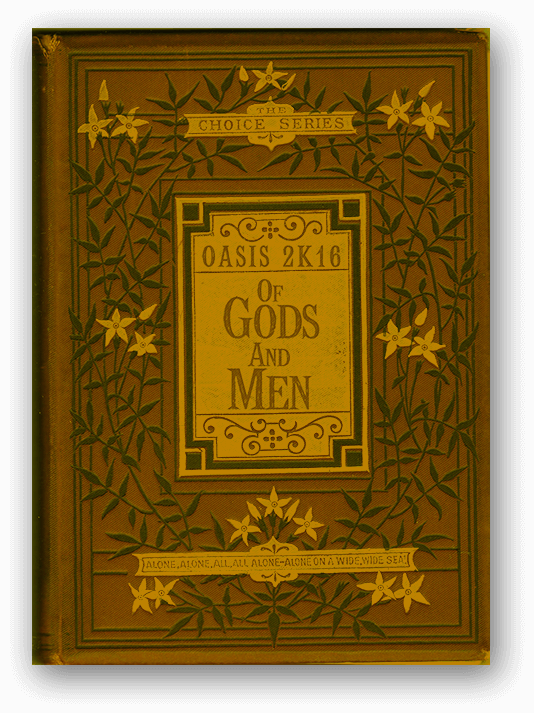
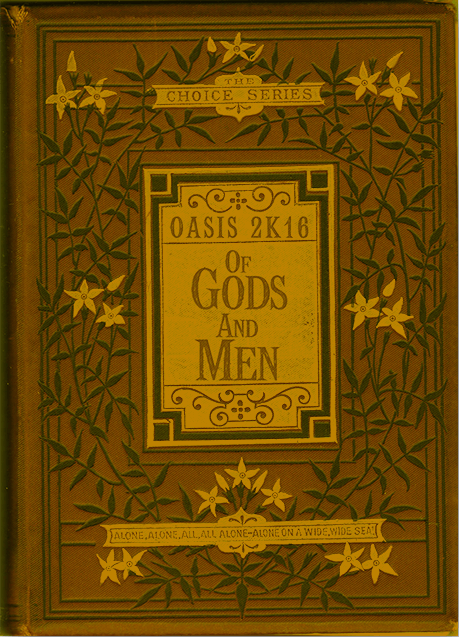
responsive fix

diff --git a/index.html b/index.html
@@ -9,7 +9,7 @@
 	<title>OASIS 2016 | OF GODS AND MEN | BITS Pilani</title>
 	<link href="https://fonts.googleapis.com/css?family=Lato" rel='stylesheet' type='text/css'>
 	<link rel="icon" type="image/png" href="./img/favicon.png">
-	<meta name="viewport" content="width=device-width, initial-scale=1.0">
+	<meta name="viewport" content="width=device-width, initial-scale=1.0,user-scalable">
 </head>
 <body>
 <div id="left"></div>
@@ -46,12 +46,13 @@
 	</div>
 </div>
 
+<div class="overlay"></div>
 	<div class="center">
 		<div id="book_box">
 			<div id="magazine">
 				<!-- <div ignore="1" class="tabs"><div class="left">  </div> <div class="right"> </div></div> -->
-				<div style="background-image:url(img/extraBevel.jpg);background-repeat:no-repeat;background-position: center;" class="hard out">
-					<div class="mascot"></div>
+				<div style="background-image:url(img/cover.png);background-repeat:no-repeat;background-position: center;" class="hard out">
+					<!-- <div class="mascot"></div>
 					<svg version="1.1" id="svg" xmlns="http://www.w3.org/2000/svg" xmlns:xlink="http://www.w3.org/1999/xlink" x="0px" y="0px"
 					width="100%" height="100%" viewBox="0 0 515 767" enable-background="new 0 0 515 767" xml:space="preserve">
 					<path fill-rule="evenodd" id="path-1"  stroke="#fff0a0" stroke-width="4" clip-rule="evenodd" fill="none" d="M88.916,70.794h134.796c0,0-29.165,23.835-14.582,58.699
@@ -88,7 +89,7 @@
 					c4.017,17.286,7.229,54.271-17.27,83.217c-24.5,28.945-72.407,50.529-45.053,112.766c13.947,31.734,47.933,28.312,51.556,30.728
 					c0,0-16.301,93.627-73.657,121.414c0,0,16.171,13.03,4.2,33.181c-11.971,20.152-34.329,14.458-29.422,73.372
 					c0,0,25.003-56.314,85.369-35.172c0,0-27.895,36.717-8.253,70.813C407.2,695.281,421.061,694.082,425.105,695.815z"/>
-				</svg>
+				</svg> -->
 
 			</div>
 			<div  class="hard out " style="background-image:url(img/C2.jpg);">
@@ -297,6 +298,7 @@ $(".dashing:nth-of-type(2),.dashing:nth-of-type(4)").css('height',bWidth-30);
 
 			turning: function(e, page, view) {
 				reloader();
+				$('.overlay').css('opacity','0.45');
 				globalPage=0;
 				var book = $(this),
 				currentPage = book.turn('page'),
@@ -328,27 +330,31 @@ $(".dashing:nth-of-type(2),.dashing:nth-of-type(4)").css('height',bWidth-30);
 				{
 					if(page==1){
 
-						$('#magazine').css("right",(($(window).width() - $(this).outerWidth()/2) / 2) + $(window).scrollLeft()  + "px");
-						$('#magazine').css("left","0");
+						$('#magazine').css("left",(($(window).width() - $(this).outerWidth()) / 2) + $(window).scrollLeft()  + "px");
+						$('#magazine').css("right","");
 					}
 
 					else if(page==14){
 
-						$('#magazine').css("right",(($(window).width() - 1.5*$(this).outerWidth()) / 2) + $(window).scrollLeft()  + "px");
-						$('#magazine').css("left","0");
+						$('#magazine').css("right",(($(window).width() - $(this).outerWidth()*1.5) / 2) + $(window).scrollLeft()  + "px");
+						$('#magazine').css("left","");
 					}
 
 
 					else  {
-						$('#magazine').css("right","0");
+						$('#magazine').css("right","");
 						$('#magazine').css("left",(($(window).width() - $(this).outerWidth()/2) / 2) + $(window).scrollLeft()  + "px");
 					}
 				}
+
+				if(page==1 || page == 14 )
+				$('.overlay').css('opacity','0');
 
 			},
 
 
 			turned: function(e, page, view) {
+
 
 				updateTabs();
 			}
@@ -382,16 +388,46 @@ $(".dashing:nth-of-type(2),.dashing:nth-of-type(4)").css('height',bWidth-30);
 
 
 	$(window).bind('keydown', function(e){
+		var book = $(this);
+		currentPage = book.turn('page');
+		if (e.keyCode==37){
+			if($(window).width() < 694){
+				if(currentPage==4){
+					$('#magazine').css("left","");
+					$('#magazine').css("right",(($(window).width() - $(this).outerWidth()/2) / 2) + $(window).scrollLeft()  + "px");
+				}
+				else if(currentPage==3){
+					$('#magazine').css("right","");
+					$('#magazine').css("left",(($(window).width() - $(this).outerWidth()/2) / 2) + $(window).scrollLeft()  + "px");
+				}
+				else {
+					$('#magazine').turn('previous');
+				}
+			}
+			else {
+				$('#magazine').turn('previous');
+			}
 
-		if (e.keyCode==37)
-			$('#magazine').turn('previous');
-		else if (e.keyCode==39)
-			$('#magazine').turn('next');
+		}
+		else if (e.keyCode==39){
+			if($(window).width() < 694){
+				if(currentPage==2){
+					$('#magazine').css("left","");
+					$('#magazine').css("right",(($(window).width() - $(this).outerWidth()/2) / 2) + $(window).scrollLeft()  + "px");
+				}
+				else {
+					$('#magazine').turn('previous');
+				}
+			}
+			else {
+				$('#magazine').turn('next');
+			}
+		}
 		else if(e.keyCode >= 49 && e.keyCode <= 57 ){
 			$('.p1').addClass('hard');
 			$('#magazine').turn('page', e.keyCode-48);
 		}
-		$('path').css({animation: 'none'});
+		// $('path').css({animation: 'none'});
 
 	});
 
@@ -439,8 +475,8 @@ function isChrome() {
 	// $(".mascot").hide().css({'background-image':'url(./img/glow.png)'}).fadeIn(2000); };
 
 
-
-//initial center magazine
+//
+// //initial center magazine
 (function(){
 
 	$('#magazine').css("position","absolute");
@@ -454,7 +490,7 @@ function isChrome() {
 		$('#magazine').addClass('bigScreenTransition');
 	}
 	else{
-		$('#magazine').css("right",(($(window).width() - ($('#magazine').outerWidth()/2)) / 2) + $(window).scrollLeft() + "px");
+		$('#magazine').css("left",(($(window).width() - ($('#magazine').outerWidth())) / 2) + $(window).scrollLeft() + "px");
 		$('#magazine').addClass('smlScreenTransition');
 	}
 
@@ -522,6 +558,7 @@ setInterval( function() {
 	$("#min").css({"-moz-transform" : mrotate, "-webkit-transform" : mrotate});
 
 }, 900 );
+
 
 
 </script>

diff --git a/css/style.css b/css/style.css
@@ -141,7 +141,7 @@ body{
 .center{
 	width:50vw;
 	margin:auto;
-	margin-top:3vh;
+	margin-top:2vh;
 }
 
 /*
@@ -157,6 +157,8 @@ body{
 	height: 80vh;
 	width:108vh;
 	margin-top: 5vh;
+	overflow: hidden;
+	z-index: 10;
 }
 
 
@@ -762,11 +764,13 @@ path{
 	position: absolute;
 	bottom: 38px;
 	width: 100%;
+	z-index: 10;
 }
 
 #socialBox{
 	margin: 0 auto;
-	width: 17%;
+	width: 25%;
+
 }
 
 .socialIcon{
@@ -774,11 +778,29 @@ path{
 	width:33%;
 }
 
+
+@media screen and (min-width:1000px) {
+	#socialBox{
+		width: 20%
+	}
+}
+
+@media screen and (max-width:600px) {
+	#socialBox{
+		width: 35%
+	}
+}
 .socialIcon img{
 	height: 18px;
 	padding: 5px;
 	vertical-align: middle;
 
+}
+
+@media screen and (max-width:380px) {
+	.socialIcon img{
+		height: 15px;
+	}
 }
 
 .innerBox:nth-of-type(2) + .innerBox:hover{
@@ -789,4 +811,18 @@ path{
 	margin: 0 auto;
 	border: 2px solid #251000;
 	border-radius: 7px;
+}
+
+
+.overlay{
+	position: absolute;
+	width: 100vw;
+	height: 100vh;
+	top:0;
+	left: 0;
+	margin: 0;
+	z-index: 5;
+	opacity: 0;
+	background: black;
+	transition: opacity 0.2s;
 }
